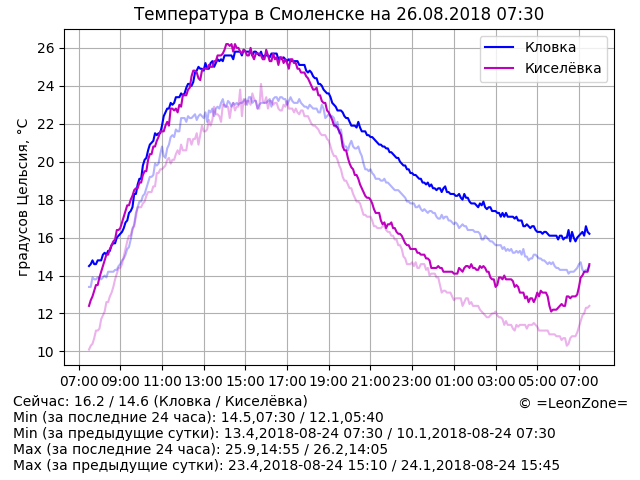
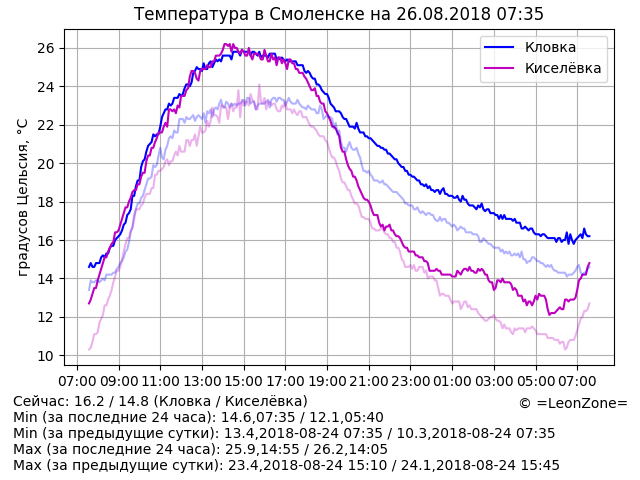
Update data

diff --git a/index.html b/index.html
@@ -14,9 +14,9 @@
 	<p align="center"><script>document.write("<img src=\"graph.png?rnd="+Math.random()+"\" alt=\"Температура в Смоленске\" align=\"middle\" width=\"640\" height=\"480\" />")</script>
 	<p hidden="true">
 <!-- textinfo -->
-Сейчас: 16.2 / 14.6 (Кловка / Киселёвка)
-Min (за последние 24 часа): 14.5,07:30 / 12.1,05:40
-Min (за предыдущие сутки): 13.4,2018-08-24 07:30 / 10.1,2018-08-24 07:30
+Сейчас: 16.2 / 14.8 (Кловка / Киселёвка)
+Min (за последние 24 часа): 14.6,07:35 / 12.1,05:40
+Min (за предыдущие сутки): 13.4,2018-08-24 07:35 / 10.3,2018-08-24 07:35
 Max (за последние 24 часа): 25.9,14:55 / 26.2,14:05
 Max (за предыдущие сутки): 23.4,2018-08-24 15:10 / 24.1,2018-08-24 15:45
 <!-- /textinfo -->
